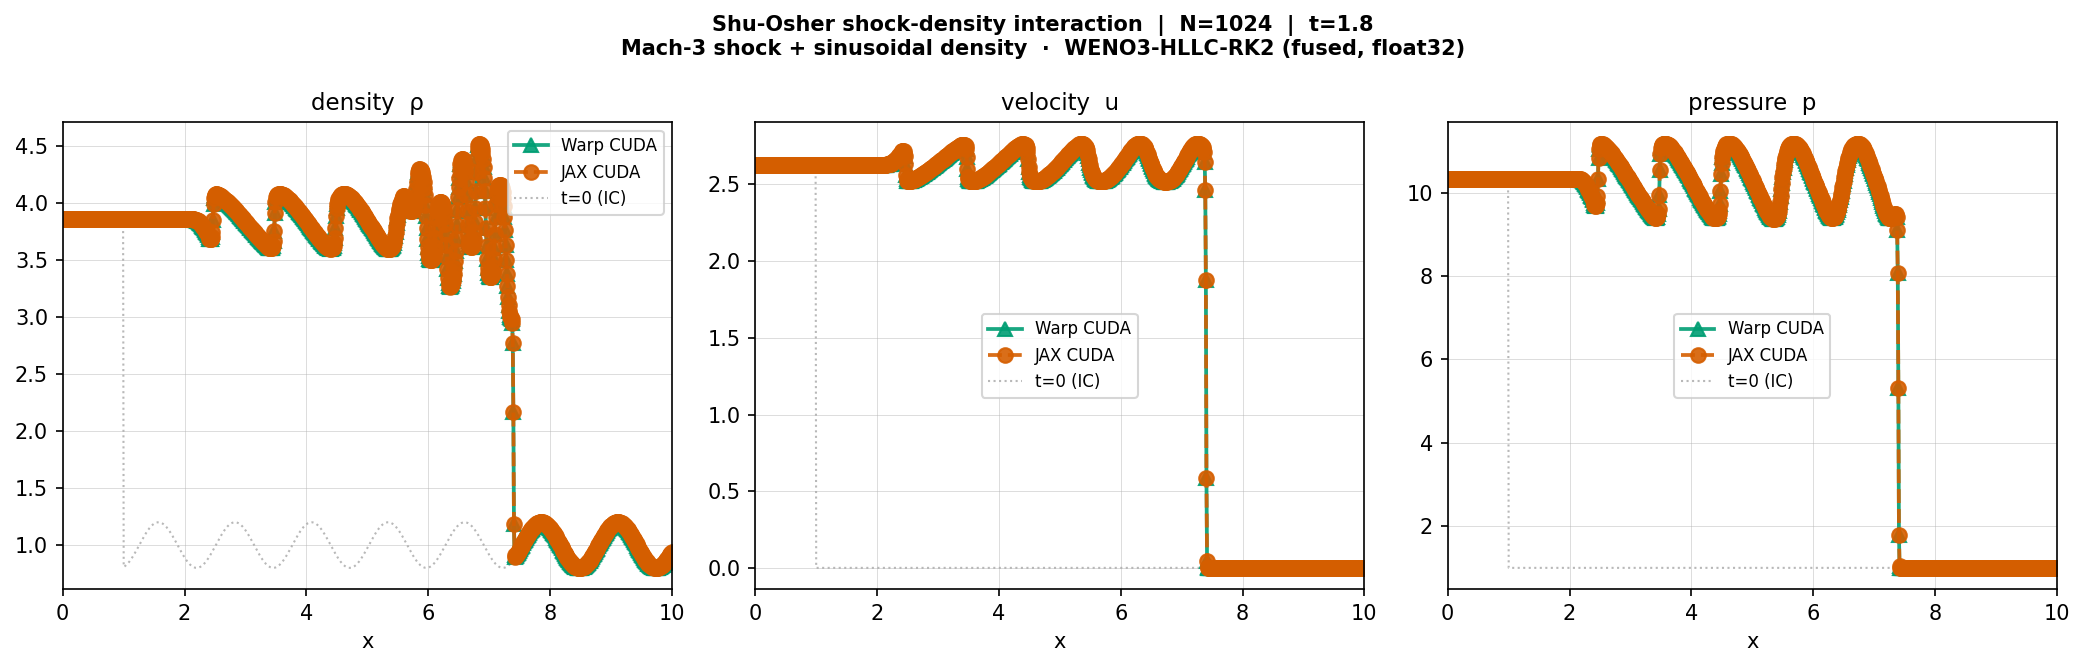
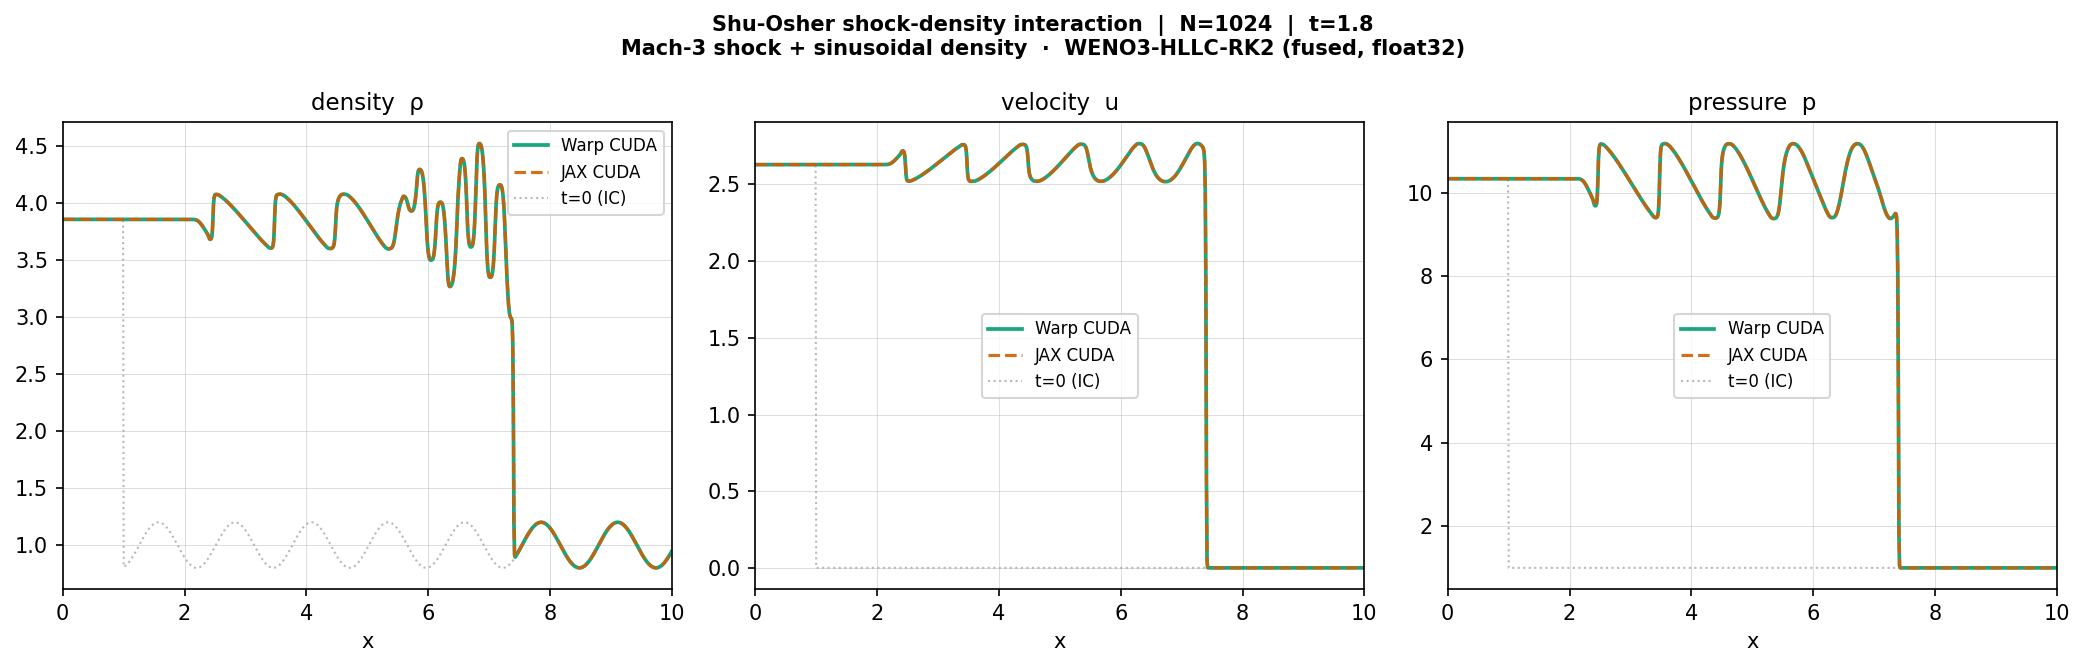
shu_osher: clean profile lines + self-convergence study
- bench_shu_osher.py: split style dicts into tp_style (markers ok for
  3-point throughput scatter) and prof_style (clean solid/dashed lines,
  no markers for 1000-point density/u/p profiles)
- convergence_study.py: new script — self-convergence vs N_ref=4096,
  N=256/512/1024/2048, block-average coarsening, 3-panel figure
  (full density, post-shock zoom, L1 log-log convergence)
- Updated PNG assets from WSL2 run (RTX 5000 Ada)
  L1(rho): 7.99e-2 → 5.76e-2 → 2.33e-2 → 7.78e-3 (rate ~1.3-1.6×)

diff --git a/examples/warplabs_fluids/benchmarks/shu_osher/convergence_study.py b/examples/warplabs_fluids/benchmarks/shu_osher/convergence_study.py
@@ -1,0 +1,168 @@
+"""
+Shu-Osher self-convergence study (Warp CUDA).
+
+No exact solution exists — uses N_ref=4096 as high-resolution reference.
+Block-averages reference to coarser grids, computes L1(rho) vs N.
+
+Test grids: N = 256, 512, 1024, 2048
+Reference:  N = 4096
+
+Saves: shu_osher_convergence.png  (3-panel: density profiles zoomed,
+                                    full density at t=1.8, L1 convergence)
+
+Run from examples/warplabs_fluids/:
+  python benchmarks/shu_osher/convergence_study.py
+"""
+
+import sys, gc
+from pathlib import Path
+
+import numpy as np
+import matplotlib
+matplotlib.use("Agg")
+import matplotlib.pyplot as plt
+import warp as wp
+
+ROOT = Path(__file__).parent.parent.parent
+OUT  = Path(__file__).parent
+sys.path.insert(0, str(ROOT))
+
+from warplabs_fluids import WarpEuler1D, cons_to_prim
+from cases.shu_osher import ic as shu_ic, L, T_END, GAMMA
+
+GRID_SIZES = [256, 512, 1024, 2048]
+N_REF      = 4096
+CFL        = 0.4
+
+COLORS = {
+    256:  "#d55e00",
+    512:  "#e07b00",
+    1024: "#0072b2",
+    2048: "#009e73",
+    4096: "0.3",
+}
+LS = {256: (0,[3,2]), 512: "--", 1024: "-.", 2048: "-", 4096: "-"}
+
+
+def run(N, device="cuda"):
+    dx = L / N
+    Q0, x = shu_ic(N, GAMMA)
+    solver = WarpEuler1D(N, dx, gamma=GAMMA, bc="outflow", device=device)
+    solver.initialize(Q0)
+    n_steps = solver.run(T_END, CFL)
+    if device == "cuda":
+        wp.synchronize()
+    rho, u, p = cons_to_prim(solver.state, GAMMA)
+    del solver; gc.collect()
+    return rho, u, p, x
+
+
+def block_avg(arr, factor):
+    """Coarsen arr[N_ref] to arr[N_ref//factor] by averaging."""
+    N = len(arr)
+    return arr.reshape(N // factor, factor).mean(axis=1)
+
+
+def main():
+    wp.init()
+
+    # try CUDA first, fall back to CPU
+    try:
+        wp.get_device("cuda")
+        device = "cuda"
+    except Exception:
+        device = "cpu"
+        print("[info] CUDA not available, using CPU")
+
+    print(f"\nRunning reference solution N={N_REF} ...", flush=True)
+    rho_ref, u_ref, p_ref, x_ref = run(N_REF, device)
+    print(f"  N={N_REF} done  ({len(rho_ref)} cells)")
+
+    coarse = {}
+    for N in GRID_SIZES:
+        factor = N_REF // N
+        print(f"\nRunning N={N} ...", flush=True)
+        rho, u, p, x = run(N, device)
+        rho_ref_c = block_avg(rho_ref, factor)
+        l1 = float(np.mean(np.abs(rho - rho_ref_c)))
+        coarse[N] = dict(rho=rho, u=u, p=p, x=x, l1=l1)
+        print(f"  N={N:<5}  L1(rho) = {l1:.3e}")
+
+    print("\n-- Self-convergence (L1 density vs N_ref=4096) --")
+    print(f"{'N':>6}  {'L1(rho)':>10}  {'rate':>8}")
+    print("-" * 30)
+    Ns = sorted(coarse)
+    for i, N in enumerate(Ns):
+        l1 = coarse[N]["l1"]
+        if i > 0:
+            N0 = Ns[i-1]
+            rate = np.log2(coarse[N0]["l1"] / l1) / np.log2(N / N0)
+            print(f"{N:>6}  {l1:>10.3e}  {rate:>8.2f}")
+        else:
+            print(f"{N:>6}  {l1:>10.3e}  {'--':>8}")
+
+    # ── figure ────────────────────────────────────────────────────────────────
+    fig = plt.figure(figsize=(14, 5))
+    ax_full = fig.add_subplot(1, 3, 1)
+    ax_zoom = fig.add_subplot(1, 3, 2)
+    ax_conv = fig.add_subplot(1, 3, 3)
+    fig.suptitle(
+        f"Shu-Osher self-convergence  ·  N_ref={N_REF}  ·  t={T_END}\n"
+        "Mach-3 shock + sin density  ·  Warp WENO3-HLLC-RK2 (fused, float32)",
+        fontsize=10, fontweight="bold")
+
+    # reference
+    ax_full.plot(x_ref, rho_ref, color=COLORS[N_REF], ls="-", lw=0.8,
+                 label=f"N={N_REF} (ref)", zorder=5)
+    ax_zoom.plot(x_ref, rho_ref, color=COLORS[N_REF], ls="-", lw=0.8,
+                 label=f"N={N_REF} (ref)", zorder=5)
+
+    l1_vals = []
+    for N in sorted(coarse):
+        d = coarse[N]
+        ls = LS[N]
+        kw = dict(color=COLORS[N], ls=ls, lw=1.6, label=f"N={N}")
+        ax_full.plot(d["x"], d["rho"], **kw)
+        ax_zoom.plot(d["x"], d["rho"], **kw)
+        l1_vals.append(d["l1"])
+
+    ax_full.set_xlabel("x", fontsize=10)
+    ax_full.set_ylabel("density  ρ", fontsize=10)
+    ax_full.set_title(f"Density at t={T_END}", fontsize=11)
+    ax_full.set_xlim(0, L)
+    ax_full.legend(fontsize=8, loc="upper left")
+    ax_full.grid(True, lw=0.4, alpha=0.5)
+
+    ax_zoom.set_xlabel("x", fontsize=10)
+    ax_zoom.set_title("Post-shock region  (zoomed)", fontsize=11)
+    ax_zoom.set_xlim(1.5, 6.5)
+    ax_zoom.legend(fontsize=8, loc="upper left")
+    ax_zoom.grid(True, lw=0.4, alpha=0.5)
+
+    # convergence
+    Ns_arr = np.array(sorted(coarse))
+    ax_conv.loglog(Ns_arr, l1_vals, "o-", color="#0072b2", lw=1.8, ms=7,
+                   label="L1(rho)")
+    # reference slopes
+    x0, y0 = Ns_arr[0], l1_vals[0]
+    ax_conv.loglog(Ns_arr, y0 * (Ns_arr / x0) ** (-1.0), color="0.6",
+                   ls="--", lw=1.0, label="O(N⁻¹)")
+    ax_conv.loglog(Ns_arr, y0 * (Ns_arr / x0) ** (-2.0), color="0.8",
+                   ls=":", lw=1.0, label="O(N⁻²)")
+    ax_conv.set_xlabel("N", fontsize=10)
+    ax_conv.set_ylabel("L1(ρ)  vs N_ref=4096", fontsize=10)
+    ax_conv.set_title("Self-convergence", fontsize=11)
+    ax_conv.set_xticks(Ns_arr)
+    ax_conv.set_xticklabels([str(n) for n in Ns_arr], fontsize=8)
+    ax_conv.legend(fontsize=9)
+    ax_conv.grid(True, which="both", lw=0.4, alpha=0.5)
+
+    fig.tight_layout()
+    out = OUT / "shu_osher_convergence.png"
+    fig.savefig(out, dpi=150, bbox_inches="tight")
+    plt.close(fig)
+    print(f"\nSaved -> {out}")
+
+
+if __name__ == "__main__":
+    main()

diff --git a/examples/warplabs_fluids/benchmarks/shu_osher/bench_shu_osher.py b/examples/warplabs_fluids/benchmarks/shu_osher/bench_shu_osher.py
@@ -120,17 +120,22 @@ def main():
         js = f"{j:.2f}" if j else "--"
         print(f"{N:>6}  {ws:>12}  {js:>12}  {sp:>8}")
 
-    # ── throughput plot ───────────────────────────────────────────────────────
-    style = {
+    # throughput style: markers OK (only 3 points)
+    tp_style = {
         "Warp CUDA": dict(color="#009e73", marker="^", ls="-",  lw=1.8, ms=7),
         "JAX CUDA":  dict(color="#d55e00", marker="o", ls="--", lw=1.8, ms=7),
+    }
+    # profile style: clean solid/dashed lines, no markers (1000+ points per line)
+    prof_style = {
+        "Warp CUDA": dict(color="#009e73", ls="-",  lw=1.8),
+        "JAX CUDA":  dict(color="#d55e00", ls="--", lw=1.5),
     }
 
     fig, ax = plt.subplots(figsize=(7, 5))
     for name, runs in results.items():
         ns_list = [r["N"]  for r in runs]
         tp_list = [r["tp"] for r in runs]
-        ax.plot(ns_list, tp_list, **style[name], label=name)
+        ax.plot(ns_list, tp_list, **tp_style[name], label=name)
     ax.set_xscale("log", base=2)
     ax.set_yscale("log", base=2)
     ax.set_xlabel("Number of cells  N", fontsize=12)
@@ -166,7 +171,7 @@ def main():
             continue
         x_ref = r["x"]
         for ax, fname, fkey in zip(axes, field_names, field_keys):
-            ax.plot(r["x"], r[fkey], **style[name], label=name, alpha=0.9)
+            ax.plot(r["x"], r[fkey], **prof_style[name], label=name, alpha=0.9)
 
     # overlay IC (density only)
     Q0_ic, x_ic = shu_ic(N_prof, GAMMA)
